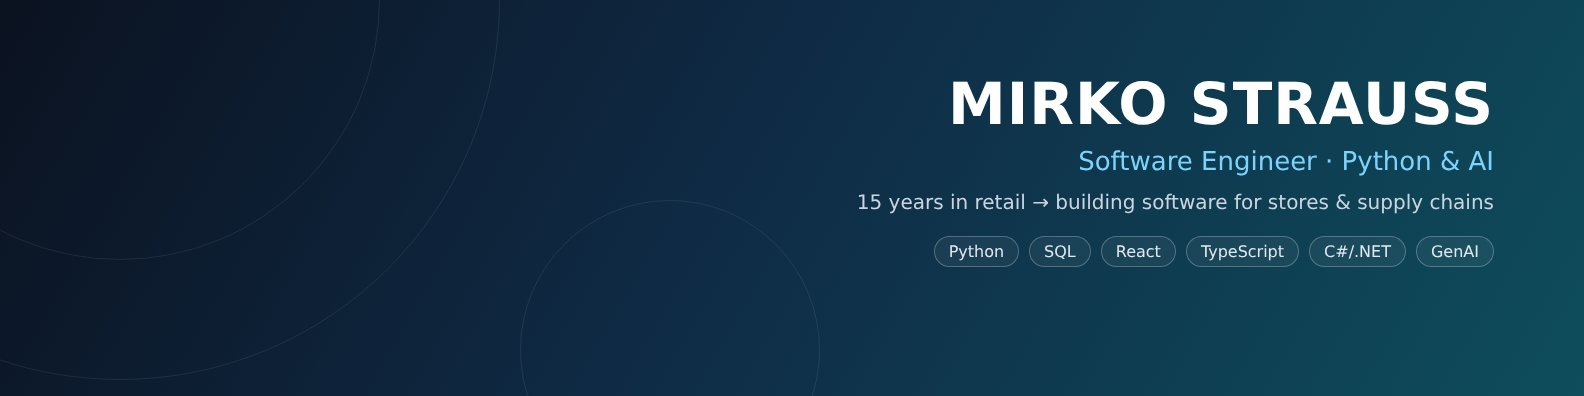
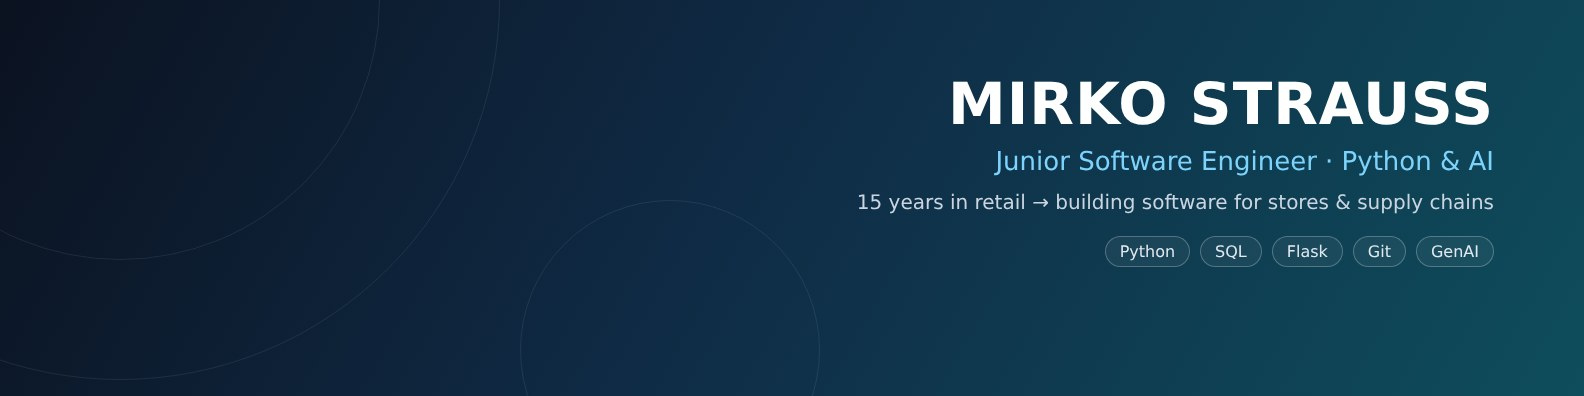
Junior Software Engineer, honest skills, remove stats cards

Changed region(s): [[0.5878, 0.5758, 0.8971, 0.6667], [0.6187, 0.3939, 0.6806, 0.4545]]

diff --git a/README.md b/README.md
@@ -4,7 +4,7 @@
 
 <p align="center">
   <a href="https://github.com/Mirko-Strauss">
-    <img src="https://readme-typing-svg.demolab.com?font=JetBrains+Mono&size=20&pause=1200&color=22D3EE&center=true&vCenter=true&width=640&lines=Software+Engineer+in+training+%C2%B7+Python+%26+AI;15+years+in+retail+%E2%86%92+retail+tech;Building+software+for+stores+%26+supply+chains" alt="Typing intro">
+    <img src="https://readme-typing-svg.demolab.com?font=JetBrains+Mono&size=20&pause=1200&color=22D3EE&center=true&vCenter=true&width=640&lines=Junior+Software+Engineer+%C2%B7+Python+%26+AI;15+years+in+retail+%E2%86%92+retail+tech;Building+software+for+stores+%26+supply+chains" alt="Typing intro">
   </a>
 </p>
 
@@ -21,7 +21,7 @@
 ```python
 class MirkoStrauss:
     location   = "Baden-Württemberg, Germany"
-    role       = "Software Engineer in training @ WBS Coding School (2026–2027)"
+    role       = "Junior Software Engineer · WBS Coding School (2026–2027)"
     background = "15 years leading a fresh-produce department in retail"
     focus      = ["Python", "Backend & APIs", "Generative AI", "Retail tech"]
     looking_for = "Internship (Jul–Aug 2027) & junior roles – remote or hybrid"
@@ -32,17 +32,26 @@ class MirkoStrauss:
 
 ### Tech stack
 
+**Working with**
+
 <p>
   <img src="https://img.shields.io/badge/Python-3776AB?style=flat-square&logo=python&logoColor=white" alt="Python">
   <img src="https://img.shields.io/badge/SQL-4479A1?style=flat-square&logo=postgresql&logoColor=white" alt="SQL">
-  <img src="https://img.shields.io/badge/JavaScript-F7DF1E?style=flat-square&logo=javascript&logoColor=black" alt="JavaScript">
-  <img src="https://img.shields.io/badge/TypeScript-3178C6?style=flat-square&logo=typescript&logoColor=white" alt="TypeScript">
-  <img src="https://img.shields.io/badge/React-20232A?style=flat-square&logo=react&logoColor=61DAFB" alt="React">
-  <img src="https://img.shields.io/badge/C%23-512BD4?style=flat-square&logo=dotnet&logoColor=white" alt="C#/.NET">
+  <img src="https://img.shields.io/badge/Flask-000000?style=flat-square&logo=flask&logoColor=white" alt="Flask">
   <img src="https://img.shields.io/badge/HTML5-E34F26?style=flat-square&logo=html5&logoColor=white" alt="HTML5">
   <img src="https://img.shields.io/badge/CSS3-1572B6?style=flat-square&logo=css3&logoColor=white" alt="CSS3">
   <img src="https://img.shields.io/badge/Git-F05032?style=flat-square&logo=git&logoColor=white" alt="Git">
   <img src="https://img.shields.io/badge/Generative_AI-412991?style=flat-square&logo=openai&logoColor=white" alt="Generative AI">
+</p>
+
+**Currently learning**
+
+<p>
+  <img src="https://img.shields.io/badge/JavaScript-F7DF1E?style=flat-square&logo=javascript&logoColor=black" alt="JavaScript">
+  <img src="https://img.shields.io/badge/TypeScript-3178C6?style=flat-square&logo=typescript&logoColor=white" alt="TypeScript">
+  <img src="https://img.shields.io/badge/React-20232A?style=flat-square&logo=react&logoColor=61DAFB" alt="React">
+  <img src="https://img.shields.io/badge/C%23-512BD4?style=flat-square&logo=dotnet&logoColor=white" alt="C#/.NET">
+  <img src="https://img.shields.io/badge/Azure-0078D4?style=flat-square&logo=microsoftazure&logoColor=white" alt="Azure">
 </p>
 
 ### Roadmap
@@ -54,11 +63,6 @@ class MirkoStrauss:
 - [ ] Internship in software development – July/August 2027
 
 ### GitHub activity
-
-<p align="center">
-  <img height="165" src="https://github-readme-stats.vercel.app/api?username=Mirko-Strauss&show_icons=true&theme=github_dark&hide_border=true&count_private=true&bg_color=0f2a44&title_color=7dd3fc&icon_color=22d3ee&text_color=e2e8f0" alt="GitHub stats">
-  <img height="165" src="https://github-readme-stats.vercel.app/api/top-langs/?username=Mirko-Strauss&layout=compact&theme=github_dark&hide_border=true&bg_color=0f2a44&title_color=7dd3fc&text_color=e2e8f0" alt="Top languages">
-</p>
 
 <p align="center">
   <img src="https://raw.githubusercontent.com/Mirko-Strauss/Mirko-Strauss/output/github-contribution-grid-snake-dark.svg" alt="Contribution snake">
